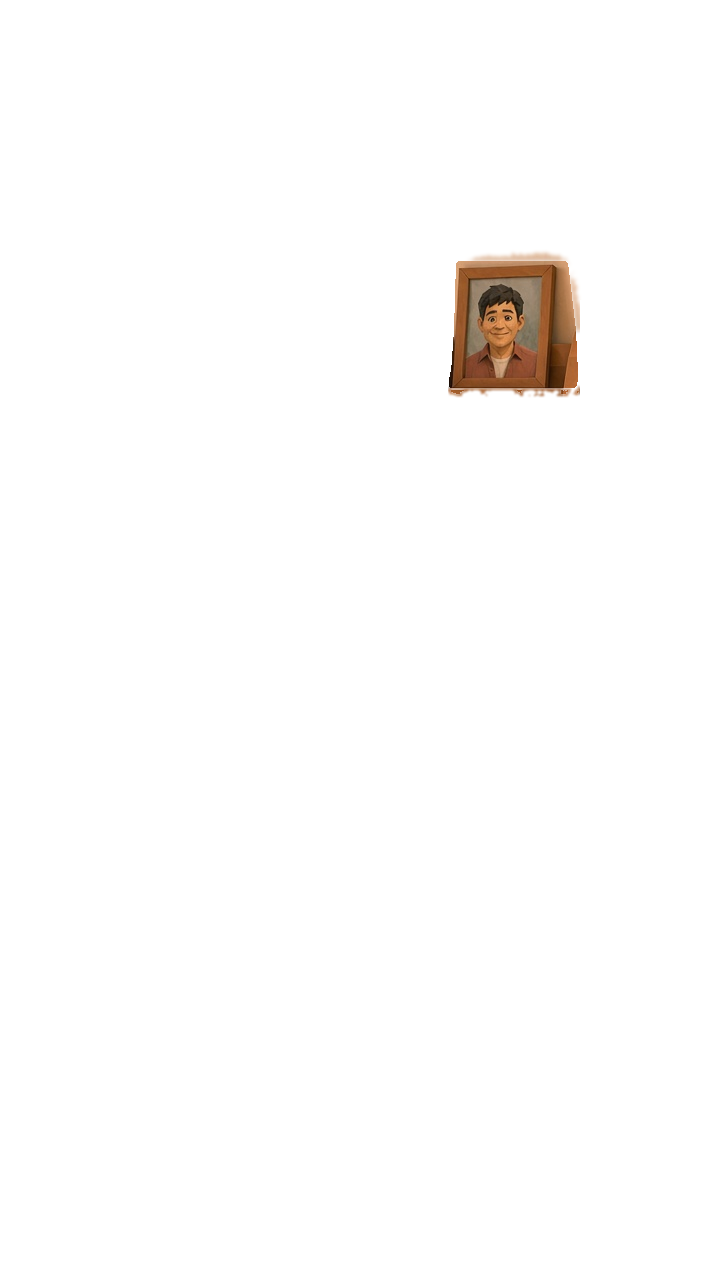
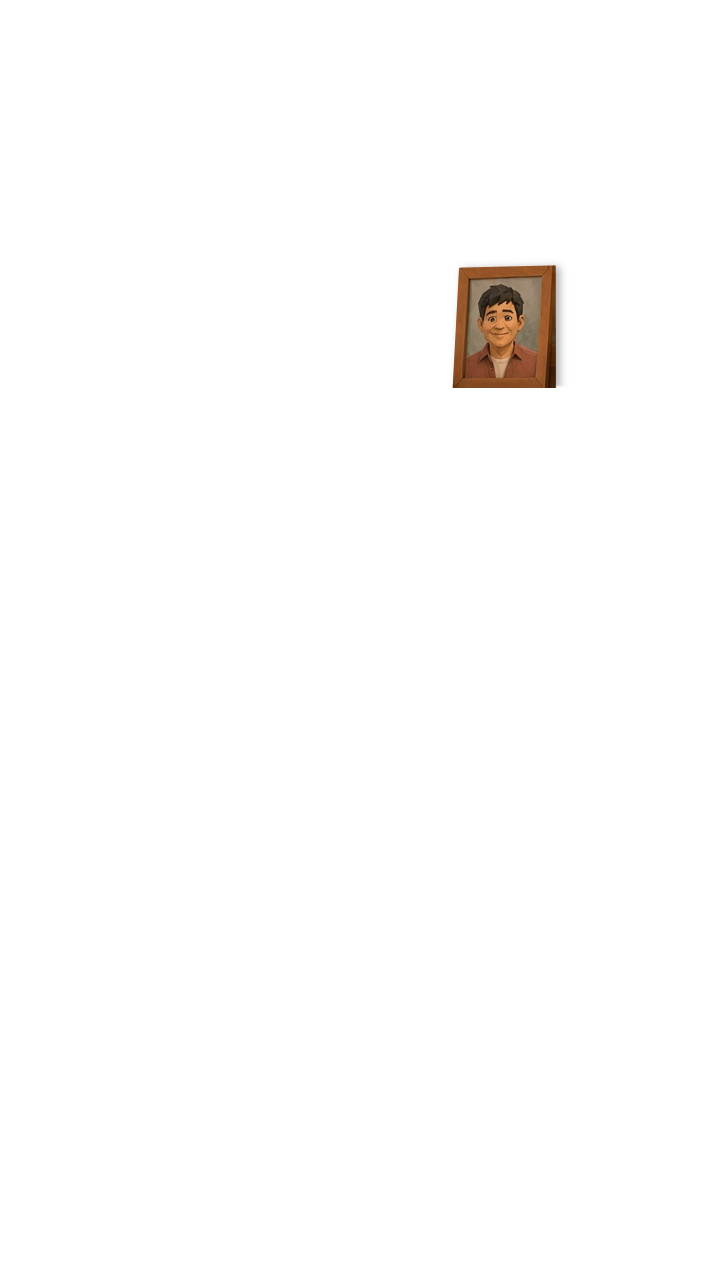
NES core 0.6.31: put Grandpa's photo away and back
Tapping the keepsake shelf after the photo is placed opens a photo panel
(same layout as the calendar panel: scrolling body, close bar outside it)
with a collapsed-by-default menu: put the photo away / put it back.
State is save.player.room.grandpaPhoto = shelf | stored (default shelf, so
old saves keep the photo visible), synced in the home doc next to calendar.
Putting it away only hides the layer; the placed decor record and all case
progress stay untouched.

The shelf overlay is rebuilt with the v0.6.30 geometry method (frame quad,
8x supersampled, edge colours from inside, separate soft shadow that stops
at the shelf lip) instead of the feathered AI patch with its wall halo.
Tests: decor state/defaults, photo asset checks, new photoPanelLayout e2e.

Changed region(s): [[0.6111, 0.1875, 0.825, 0.3125]]

diff --git a/games/never-ending-story/src/components/PhotoPanel.svelte b/games/never-ending-story/src/components/PhotoPanel.svelte
@@ -1,0 +1,79 @@
+<script lang="ts">
+  import { tick } from 'svelte';
+  import { t } from '../lib/i18n';
+  import { PHOTO_OVERLAY, type GrandpaPhotoState } from '../lib/decor';
+
+  let {
+    title,
+    photoState = 'shelf',
+    onState,
+    onClose,
+  }: {
+    title: string;
+    photoState?: GrandpaPhotoState;
+    onState: (next: GrandpaPhotoState) => void;
+    onClose: () => void;
+  } = $props();
+
+  /** Collapsed every time the panel opens, same as the calendar's change menu. */
+  let manageOpen = $state(false);
+  let body = $state<HTMLDivElement | null>(null);
+  const stored = $derived(photoState === 'stored');
+  /** The framed photo exactly as it stands on the shelf: a crop of the room overlay (frame x 452–556, y 265–388). */
+  const FRAME = { x: 452, y: 265, w: 104, h: 123 };
+  const SHOW_W = 150;
+  const k = SHOW_W / FRAME.w;
+  const frameStyle = `width:${SHOW_W}px;height:${Math.round(FRAME.h * k)}px;background-image:url('${import.meta.env.BASE_URL}img/decor/${PHOTO_OVERLAY}');background-size:${720 * k}px ${1280 * k}px;background-position:${-FRAME.x * k}px ${-FRAME.y * k}px`;
+
+  async function toggleManage(): Promise<void> {
+    manageOpen = !manageOpen;
+    if (!manageOpen) return;
+    await tick();
+    const section = body?.querySelector<HTMLElement>('[data-testid="photo-manage"]');
+    if (!body || !section) return;
+    const reduce = window.matchMedia?.('(prefers-reduced-motion: reduce)').matches;
+    const bottom = section.offsetTop + section.offsetHeight - body.clientHeight;
+    if (bottom > body.scrollTop) body.scrollTo({ top: bottom, behavior: reduce ? 'auto' : 'smooth' });
+  }
+</script>
+
+<div class="scrim" onclick={onClose} role="presentation">
+  <dialog class="sheet calendar-sheet photo-sheet" aria-label={title} open onclick={(event) => event.stopPropagation()}>
+    <div class="sheet-body" data-testid="photo-scroll" bind:this={body}>
+      <h2>{title}</h2>
+      <figure class="keepsake" class:stored>
+        <div class="frame" role="img" aria-label={t('photo.title')} style={frameStyle}></div>
+        <figcaption>{stored ? t('photo.storedBody') : t('photo.onShelfBody')}</figcaption>
+      </figure>
+      <div class="themes" class:open={manageOpen} data-testid="photo-manage">
+        <button
+          type="button"
+          class="change-toggle"
+          data-testid="photo-manage-toggle"
+          aria-expanded={manageOpen}
+          aria-controls="photo-manage-options"
+          onclick={toggleManage}
+        >
+          <span class="label">{t('photo.manage')}</span>
+          <span class="current">{stored ? t('photo.storedShort') : t('photo.onShelfShort')}</span>
+          <span class="chevron" aria-hidden="true">▾</span>
+        </button>
+        {#if manageOpen}
+          <div id="photo-manage-options" data-testid="photo-manage-options">
+            {#if stored}<p class="note">{t('photo.storedNote')}</p>{/if}
+            <div class="row">
+              {#if stored}
+                <button type="button" class="choice wall-action" data-testid="photo-put-back" onclick={() => onState('shelf')}>{t('photo.putBack')}</button>
+              {:else}
+                <button type="button" class="choice wall-action" data-testid="photo-store" onclick={() => onState('stored')}>{t('photo.store')}</button>
+              {/if}
+            </div>
+          </div>
+        {/if}
+      </div>
+    </div>
+    <div class="sheet-foot">
+      <button type="button" class="close" data-testid="photo-close" onclick={onClose}>{t('calendar.close')}</button>
+    </div>
+  </dialog>
+</div>

diff --git a/games/never-ending-story/src/App.svelte b/games/never-ending-story/src/App.svelte
@@ -4,6 +4,7 @@
   import EditorView from './components/EditorView.svelte';
   import AssetBrowser from './components/AssetBrowser.svelte';
   import CalendarPanel from './components/CalendarPanel.svelte';
+  import PhotoPanel from './components/PhotoPanel.svelte';
   import { isDesignLocked, themeForDesign, type CalendarState } from './lib/calendarDecor';
   import { FlowView, createFlow, loadFlow } from './modules/event-core';
   import Hud from './components/Hud.svelte';
@@ -19,7 +20,7 @@
   import { minigameRoute } from './modules/minigame-core';
   import { loadPlayerRoom } from './lib/loadRoom';
   import { readSave, writeSave } from './lib/save';
-  import { DECOR_PHOTO, KEEPSAKE_SHELF_ID, isGrandpaPhoto } from './lib/decor';
+  import { DECOR_PHOTO, KEEPSAKE_SHELF_ID, isGrandpaPhoto, photoPlaced, type GrandpaPhotoState } from './lib/decor';
   import { appStorage } from './lib/deployment';
   import { buildInfo } from './lib/buildInfo';
   import {
@@ -38,7 +39,7 @@
   let room = $state<PlayerRoom | null>(null);
   let save = $state<SaveV1>(readSave());
   let error = $state<string | null>(null);
-  let overlay = $state<null | 'calendar' | 'settings' | 'decor'>(null);
+  let overlay = $state<null | 'calendar' | 'settings' | 'decor' | 'photo'>(null);
   let decorSlotId = $state<string | null>(null);
   let selectedId = $state<string | null>(null);
   let hintId = $state<string | null>(null);
@@ -129,7 +130,8 @@
       if (!hotspot) return;
       if (hotspot.kind === 'decor-slot') {
         decorSlotId = hotspot.id;
-        overlay = 'decor';
+        // once the story has placed Grandpa's photo, the shelf opens its own panel (put away / back)
+        overlay = hotspot.id === KEEPSAKE_SHELF_ID && photoPlaced(save.player.decor) ? 'photo' : 'decor';
       } else if (hotspot.action === 'event-select') void session.go('event-select');
       else if (hotspot.action === 'practice') session.enterPractice();
       else if (hotspot.action === 'calendar') overlay = 'calendar';
@@ -210,9 +212,18 @@
     }
     next[KEEPSAKE_SHELF_ID] = DECOR_PHOTO;
     save.player.decor = next;
+    save.player.room = { ...save.player.room, grandpaPhoto: 'shelf' };
     commit();
     overlay = null;
     showToast(t('toast.photoPlaced'));
+  }
+
+  /** Put the photo away or back. Only player.room changes; the placed decor (story record) stays. */
+  function setGrandpaPhoto(next: GrandpaPhotoState): void {
+    if (!photoPlaced(save.player.decor) || save.player.room.grandpaPhoto === next) return;
+    save.player.room = { ...save.player.room, grandpaPhoto: next };
+    commit();
+    showToast(t(next === 'stored' ? 'toast.photoStored' : 'toast.photoBack'));
   }
 
   function decorBody(): string {
@@ -370,6 +381,7 @@
           {hintId}
           decor={save.player.decor}
           calendar={save.player.room.calendar}
+          grandpaPhoto={save.player.room.grandpaPhoto}
           onTap={choose}
           onMiss={() => (selectedId = null)}
         />
@@ -434,6 +446,13 @@
         onTheme={setTheme}
         onWall={setCalendarWall}
         onEntry={onCalendarEntry}
+        onClose={() => (overlay = null)}
+      />
+    {:else if overlay === 'photo' && decorHotspot && session.screen === 'player-room'}
+      <PhotoPanel
+        title={decorHotspot.title}
+        photoState={save.player.room.grandpaPhoto}
+        onState={setGrandpaPhoto}
         onClose={() => (overlay = null)}
       />
     {:else if overlay === 'decor' && decorHotspot}

diff --git a/games/never-ending-story/tests/decor.test.ts b/games/never-ending-story/tests/decor.test.ts
@@ -2,9 +2,16 @@ import {
   DECOR_PHOTO,
   DECOR_PHOTO_LEGACY,
   KEEPSAKE_SHELF_ID,
+  DEFAULT_GRANDPA_PHOTO,
+  GRANDPA_PHOTO_STATES,
+  PHOTO_OVERLAY,
   isGrandpaPhoto,
   normalizeDecor,
+  normalizeGrandpaPhoto,
+  photoOnShelf,
+  photoPlaced,
 } from '../src/lib/decor.ts';
+import { normalizeRoomDecor } from '../src/lib/calendarDecor.ts';
 
 declare const process: { exitCode?: number };
 let failed = 0;
@@ -69,6 +76,37 @@ test('copies on several slots collapse onto the keepsake shelf', () => {
   ok(report.violations.some((item) => item.code === 'photo-off-shelf'), 'code');
   ok(report.decor[BED] === null && report.decor[RUG] === null, 'cleared');
   ok(report.decor[KEEPSAKE_SHELF_ID] === DECOR_PHOTO, 'shelf');
+});
+
+test('grandpa photo state: shelf | stored, default shelf, junk falls back to shelf', () => {
+  ok(GRANDPA_PHOTO_STATES.join(',') === 'shelf,stored', GRANDPA_PHOTO_STATES.join(','));
+  ok(DEFAULT_GRANDPA_PHOTO === 'shelf', 'default');
+  for (const raw of [undefined, null, 0, '', 'floor', 'STORED', {}, []]) ok(normalizeGrandpaPhoto(raw) === 'shelf', `junk ${String(raw)}`);
+  ok(normalizeGrandpaPhoto('stored') === 'stored', 'stored kept');
+  ok(normalizeGrandpaPhoto('shelf') === 'shelf', 'shelf kept');
+  ok(PHOTO_OVERLAY === 'keepsake-shelf-grandpa-photo.png', 'overlay file');
+});
+
+test('old saves (no room.grandpaPhoto) keep the placed photo on the shelf', () => {
+  const room = normalizeRoomDecor({ calendar: 'garden' }, []);
+  ok(room.grandpaPhoto === 'shelf' && room.calendar === 'garden', JSON.stringify(room));
+  ok(normalizeRoomDecor(undefined, []).grandpaPhoto === 'shelf', 'no room');
+  ok(normalizeRoomDecor({ grandpaPhoto: 'stored' }, []).grandpaPhoto === 'stored', 'stored survives reload');
+  ok(normalizeRoomDecor({ grandpaPhoto: 'stored' }, []).calendar === 'original', 'calendar untouched');
+  const placed = { [KEEPSAKE_SHELF_ID]: DECOR_PHOTO };
+  ok(photoOnShelf(placed, room.grandpaPhoto), 'visible by default');
+  ok(photoOnShelf({ [KEEPSAKE_SHELF_ID]: DECOR_PHOTO_LEGACY }, 'shelf'), 'legacy label visible');
+});
+
+test('putting the photo away hides it but never un-places it', () => {
+  const placed = { [KEEPSAKE_SHELF_ID]: DECOR_PHOTO };
+  ok(!photoOnShelf(placed, 'stored'), 'hidden when stored');
+  ok(photoPlaced(placed), 'still placed when stored');
+  // the stored flag does not touch decor, so normalizeDecor keeps the story record as is
+  const report = normalizeDecor(placed);
+  ok(!report.changed && report.decor[KEEPSAKE_SHELF_ID] === DECOR_PHOTO, 'decor kept');
+  ok(!photoOnShelf({}, 'shelf') && !photoPlaced({}), 'nothing before the story places it');
+  ok(!photoOnShelf({ [KEEPSAKE_SHELF_ID]: null }, 'shelf'), 'empty slot');
 });
 
 console.log(failed ? `decor: ${failed} failed` : 'decor: all passed');

diff --git a/games/never-ending-story/src/components/RoomView.svelte b/games/never-ending-story/src/components/RoomView.svelte
@@ -1,7 +1,7 @@
 <script lang="ts">
   import type { PlayerRoom } from '../lib/types';
   import { t } from '../lib/i18n';
-  import { KEEPSAKE_SHELF_ID, isGrandpaPhoto } from '../lib/decor';
+  import { KEEPSAKE_SHELF_ID, PHOTO_OVERLAY, isGrandpaPhoto, photoOnShelf as onShelf, type GrandpaPhotoState } from '../lib/decor';
   import { calendarLayers, type CalendarState } from '../lib/calendarDecor';
 
   let {
@@ -10,6 +10,7 @@
     hintId = null,
     decor = {},
     calendar = 'original',
+    grandpaPhoto = 'shelf',
     onTap = () => {},
     onMiss = () => {},
     showMarkers = true,
@@ -19,14 +20,15 @@
     hintId?: string | null;
     decor?: Record<string, string | null>;
     calendar?: CalendarState;
+    grandpaPhoto?: GrandpaPhotoState;
     onTap?: (id: string) => void;
     onMiss?: () => void;
     showMarkers?: boolean;
   } = $props();
 
   const backdropSrc = $derived(`${import.meta.env.BASE_URL}img/${room.backdrop}`);
-  const photoOverlaySrc = $derived(`${import.meta.env.BASE_URL}img/decor/keepsake-shelf-grandpa-photo.png`);
-  const photoOnShelf = $derived(isGrandpaPhoto(decor[KEEPSAKE_SHELF_ID]));
+  const photoOverlaySrc = $derived(`${import.meta.env.BASE_URL}img/decor/${PHOTO_OVERLAY}`);
+  const photoOnShelf = $derived(onShelf(decor, grandpaPhoto));
   const calendarLayer = $derived(calendarLayers(calendar));
   const decorSrc = (file: string) => `${import.meta.env.BASE_URL}img/decor/${file}`;
 
@@ -51,7 +53,7 @@
     <img class="backdrop decor-overlay" data-layer="calendar-design" src={decorSrc(calendarLayer.design)} alt="" draggable="false" />
   {/if}
   {#if photoOnShelf}
-    <img class="backdrop decor-overlay" src={photoOverlaySrc} alt="" draggable="false" />
+    <img class="backdrop decor-overlay" data-layer="grandpa-photo" src={photoOverlaySrc} alt="" draggable="false" />
   {/if}
   {#if showMarkers}
     <button type="button" class="miss" aria-label="พื้นห้อง" onclick={() => onMiss()}></button>
@@ -60,7 +62,7 @@
     {#if showMarkers}
       {#each room.hotspots as hotspot (hotspot.id)}
         {@const at = center(hotspot)}
-        {@const filled = hotspot.kind === 'decor-slot' && !!decor[hotspot.id]}
+        {@const filled = hotspot.kind === 'decor-slot' && !!decor[hotspot.id] && !(hotspot.id === KEEPSAKE_SHELF_ID && !photoOnShelf)}
         <button
           type="button"
           class="spot"

diff --git a/games/never-ending-story/src/lib/calendarDecor.ts b/games/never-ending-story/src/lib/calendarDecor.ts
@@ -26,7 +26,10 @@ export const DESIGN_OVERLAY: Record<Exclude<CalendarDesign, 'original'>, string>
 };
 export const WALL_PATCH = 'calendar-wall-patch.png';
 
-export type RoomDecorState = { calendar: CalendarState };
+import { normalizeGrandpaPhoto, type GrandpaPhotoState } from './decor.ts';
+
+/** player.room: what hangs on the wall and whether Grandpa's photo is on the shelf. */
+export type RoomDecorState = { calendar: CalendarState; grandpaPhoto: GrandpaPhotoState };
 
 export function isCalendarState(value: unknown): value is CalendarState {
   return typeof value === 'string' && (CALENDAR_STATES as readonly string[]).includes(value);
@@ -46,9 +49,8 @@ export function normalizeCalendar(value: unknown, solvedCaseIds: readonly string
 }
 
 export function normalizeRoomDecor(raw: unknown, solvedCaseIds: readonly string[]): RoomDecorState {
-  const calendar =
-    raw && typeof raw === 'object' && !Array.isArray(raw) ? (raw as { calendar?: unknown }).calendar : undefined;
-  return { calendar: normalizeCalendar(calendar, solvedCaseIds) };
+  const obj = raw && typeof raw === 'object' && !Array.isArray(raw) ? (raw as { calendar?: unknown; grandpaPhoto?: unknown }) : {};
+  return { calendar: normalizeCalendar(obj.calendar, solvedCaseIds), grandpaPhoto: normalizeGrandpaPhoto(obj.grandpaPhoto) };
 }
 
 export type CalendarLayers = { patch: string | null; design: string | null };

diff --git a/games/never-ending-story/src/lib/decor.ts b/games/never-ending-story/src/lib/decor.ts
@@ -42,3 +42,26 @@ export function normalizeDecor(decor: Record<string, string | null>): Normalized
     || decor[KEEPSAKE_SHELF_ID] !== DECOR_PHOTO;
   return { decor: next, violations, changed };
 }
+
+/**
+ * Where the placed photo is right now. Putting it away only hides it: the decor slot keeps
+ * DECOR_PHOTO (the story's record that it was placed), so no progress is ever lost.
+ */
+export const GRANDPA_PHOTO_STATES = ['shelf', 'stored'] as const;
+export type GrandpaPhotoState = (typeof GRANDPA_PHOTO_STATES)[number];
+export const DEFAULT_GRANDPA_PHOTO: GrandpaPhotoState = 'shelf';
+export const PHOTO_OVERLAY = 'keepsake-shelf-grandpa-photo.png';
+
+export function normalizeGrandpaPhoto(value: unknown): GrandpaPhotoState {
+  return value === 'stored' ? 'stored' : DEFAULT_GRANDPA_PHOTO;
+}
+
+/** The photo has been placed by the story (it lives in the keepsake slot). */
+export function photoPlaced(decor: Record<string, string | null | undefined>): boolean {
+  return isGrandpaPhoto(decor[KEEPSAKE_SHELF_ID]);
+}
+
+/** Shown on the shelf: placed and not put away. */
+export function photoOnShelf(decor: Record<string, string | null | undefined>, state: GrandpaPhotoState): boolean {
+  return photoPlaced(decor) && state !== 'stored';
+}

diff --git a/games/never-ending-story/src/lib/cloudSync.ts b/games/never-ending-story/src/lib/cloudSync.ts
@@ -110,11 +110,11 @@ function snapshot(): Record<string, unknown> {
   return out;
 }
 
-type SaveLike = { player?: { decor?: unknown; calendarTheme?: unknown; room?: { calendar?: unknown } }; flow?: Record<string, unknown> };
+type SaveLike = { player?: { decor?: unknown; calendarTheme?: unknown; room?: { calendar?: unknown; grandpaPhoto?: unknown } }; flow?: Record<string, unknown> };
 
 /** Home room document: what "my room" holds today, with room for future items. */
 function homeDoc(save: SaveLike): Record<string, unknown> {
-  return { roomId: 'player-room', decor: save.player?.decor ?? {}, calendarTheme: save.player?.calendarTheme ?? null, calendar: save.player?.room?.calendar ?? 'original', placed: [], unlocked: [] };
+  return { roomId: 'player-room', decor: save.player?.decor ?? {}, calendarTheme: save.player?.calendarTheme ?? null, calendar: save.player?.room?.calendar ?? 'original', grandpaPhoto: save.player?.room?.grandpaPhoto ?? 'shelf', placed: [], unlocked: [] };
 }
 
 function eventDoc(save: SaveLike) {

diff --git a/games/never-ending-story/src/app.css b/games/never-ending-story/src/app.css
@@ -445,6 +445,15 @@ dialog.sheet::backdrop { display: none; }
 .themes .change-toggle .chevron { transition: transform 150ms ease; }
 .themes.open .change-toggle .chevron { transform: rotate(180deg); }
 .themes .wall-action { width: 100%; background: #3a2a14; border-color: #ffcf4a; }
+/* Grandpa photo panel (reuses the calendar sheet layout: scrolling body + close bar outside it) */
+.photo-sheet h2 { margin: 0 0 10px; }
+.photo-sheet .keepsake { margin: 0 0 12px; display: grid; justify-items: center; gap: 8px; }
+.photo-sheet .keepsake .frame {
+  background-repeat: no-repeat;
+  filter: drop-shadow(0 3px 6px rgba(0, 0, 0, 0.35));
+}
+.photo-sheet .keepsake.stored .frame { opacity: 0.5; filter: grayscale(0.5); }
+.photo-sheet .keepsake figcaption { font-size: var(--fs-sm); text-align: center; opacity: 0.9; }
 
 .toast {
   position: absolute;

diff --git a/games/never-ending-story/src/lib/save.ts b/games/never-ending-story/src/lib/save.ts
@@ -1,7 +1,7 @@
 import { appStorage } from './deployment';
 import type { FlowProgress, SaveV1, TextSize } from './types';
 import { markDirty } from './cloudSync';
-import { normalizeDecor } from './decor';
+import { DEFAULT_GRANDPA_PHOTO, normalizeDecor } from './decor';
 import { DEFAULT_CALENDAR, normalizeRoomDecor } from './calendarDecor';
 
 export const SAVE_KEY = 'nesg.player.v1';
@@ -18,7 +18,7 @@ export function defaultSave(): SaveV1 {
       soundEnabled: false,
       calendarTheme: null,
       decor: {},
-      room: { calendar: DEFAULT_CALENDAR },
+      room: { calendar: DEFAULT_CALENDAR, grandpaPhoto: DEFAULT_GRANDPA_PHOTO },
     },
     knowledge: {
       evidence: [],

diff --git a/games/never-ending-story/tests/calendarDecor.test.ts b/games/never-ending-story/tests/calendarDecor.test.ts
@@ -49,6 +49,7 @@ test('normalizer: missing, junk, and unknown values fall back to original', () =
   ok(normalizeRoomDecor(undefined, []).calendar === 'original', 'no room');
   ok(normalizeRoomDecor([], []).calendar === 'original', 'array room');
   ok(normalizeRoomDecor({}, []).calendar === 'original', 'empty room');
+  ok(normalizeRoomDecor({}, []).grandpaPhoto === 'shelf', 'empty room keeps the photo on the shelf');
 });
 
 test('normalizer keeps take-down and unlocked designs', () => {
